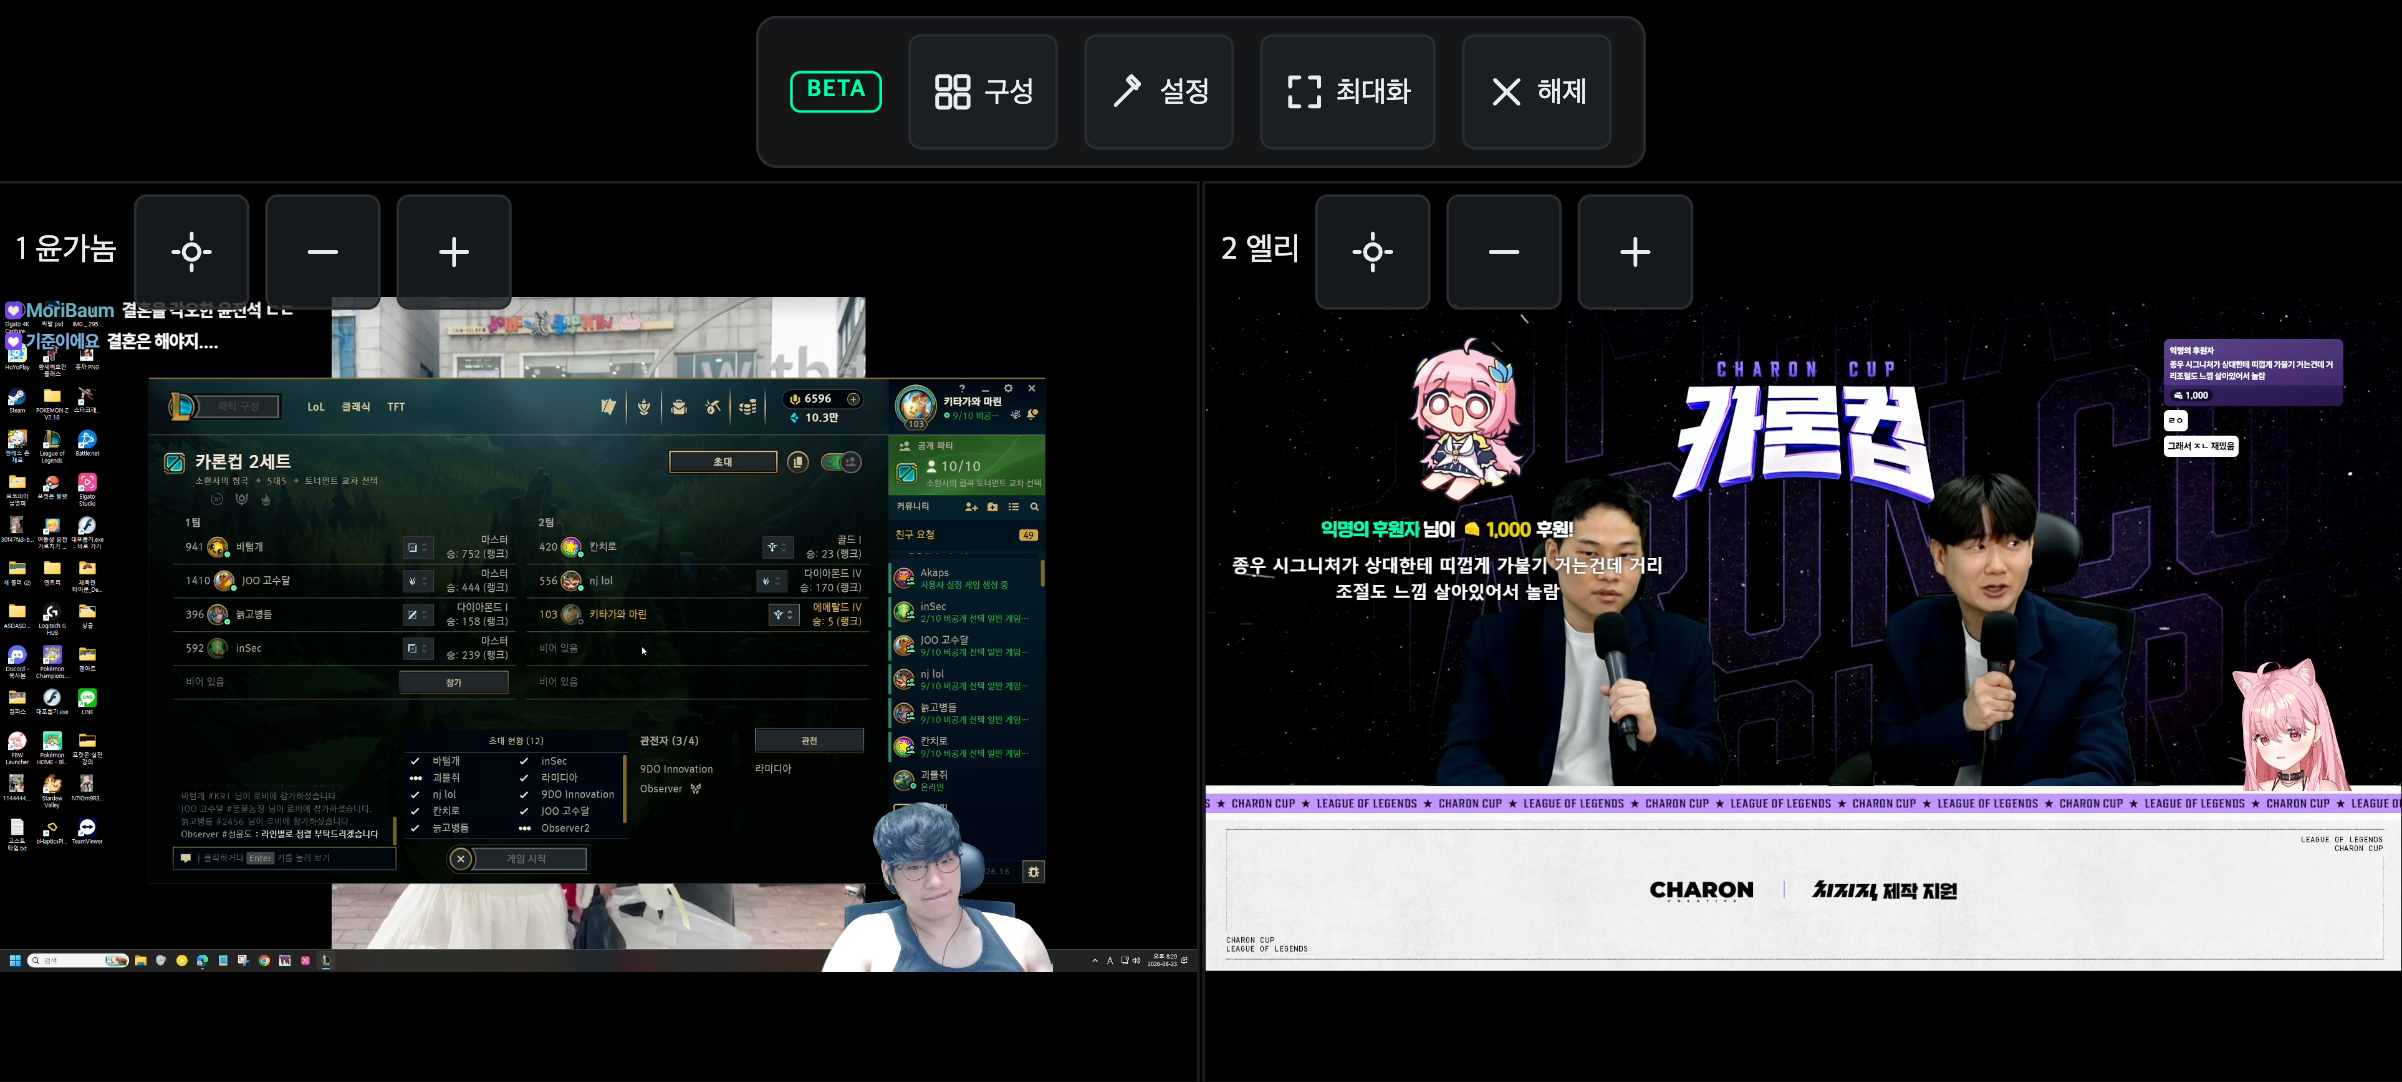
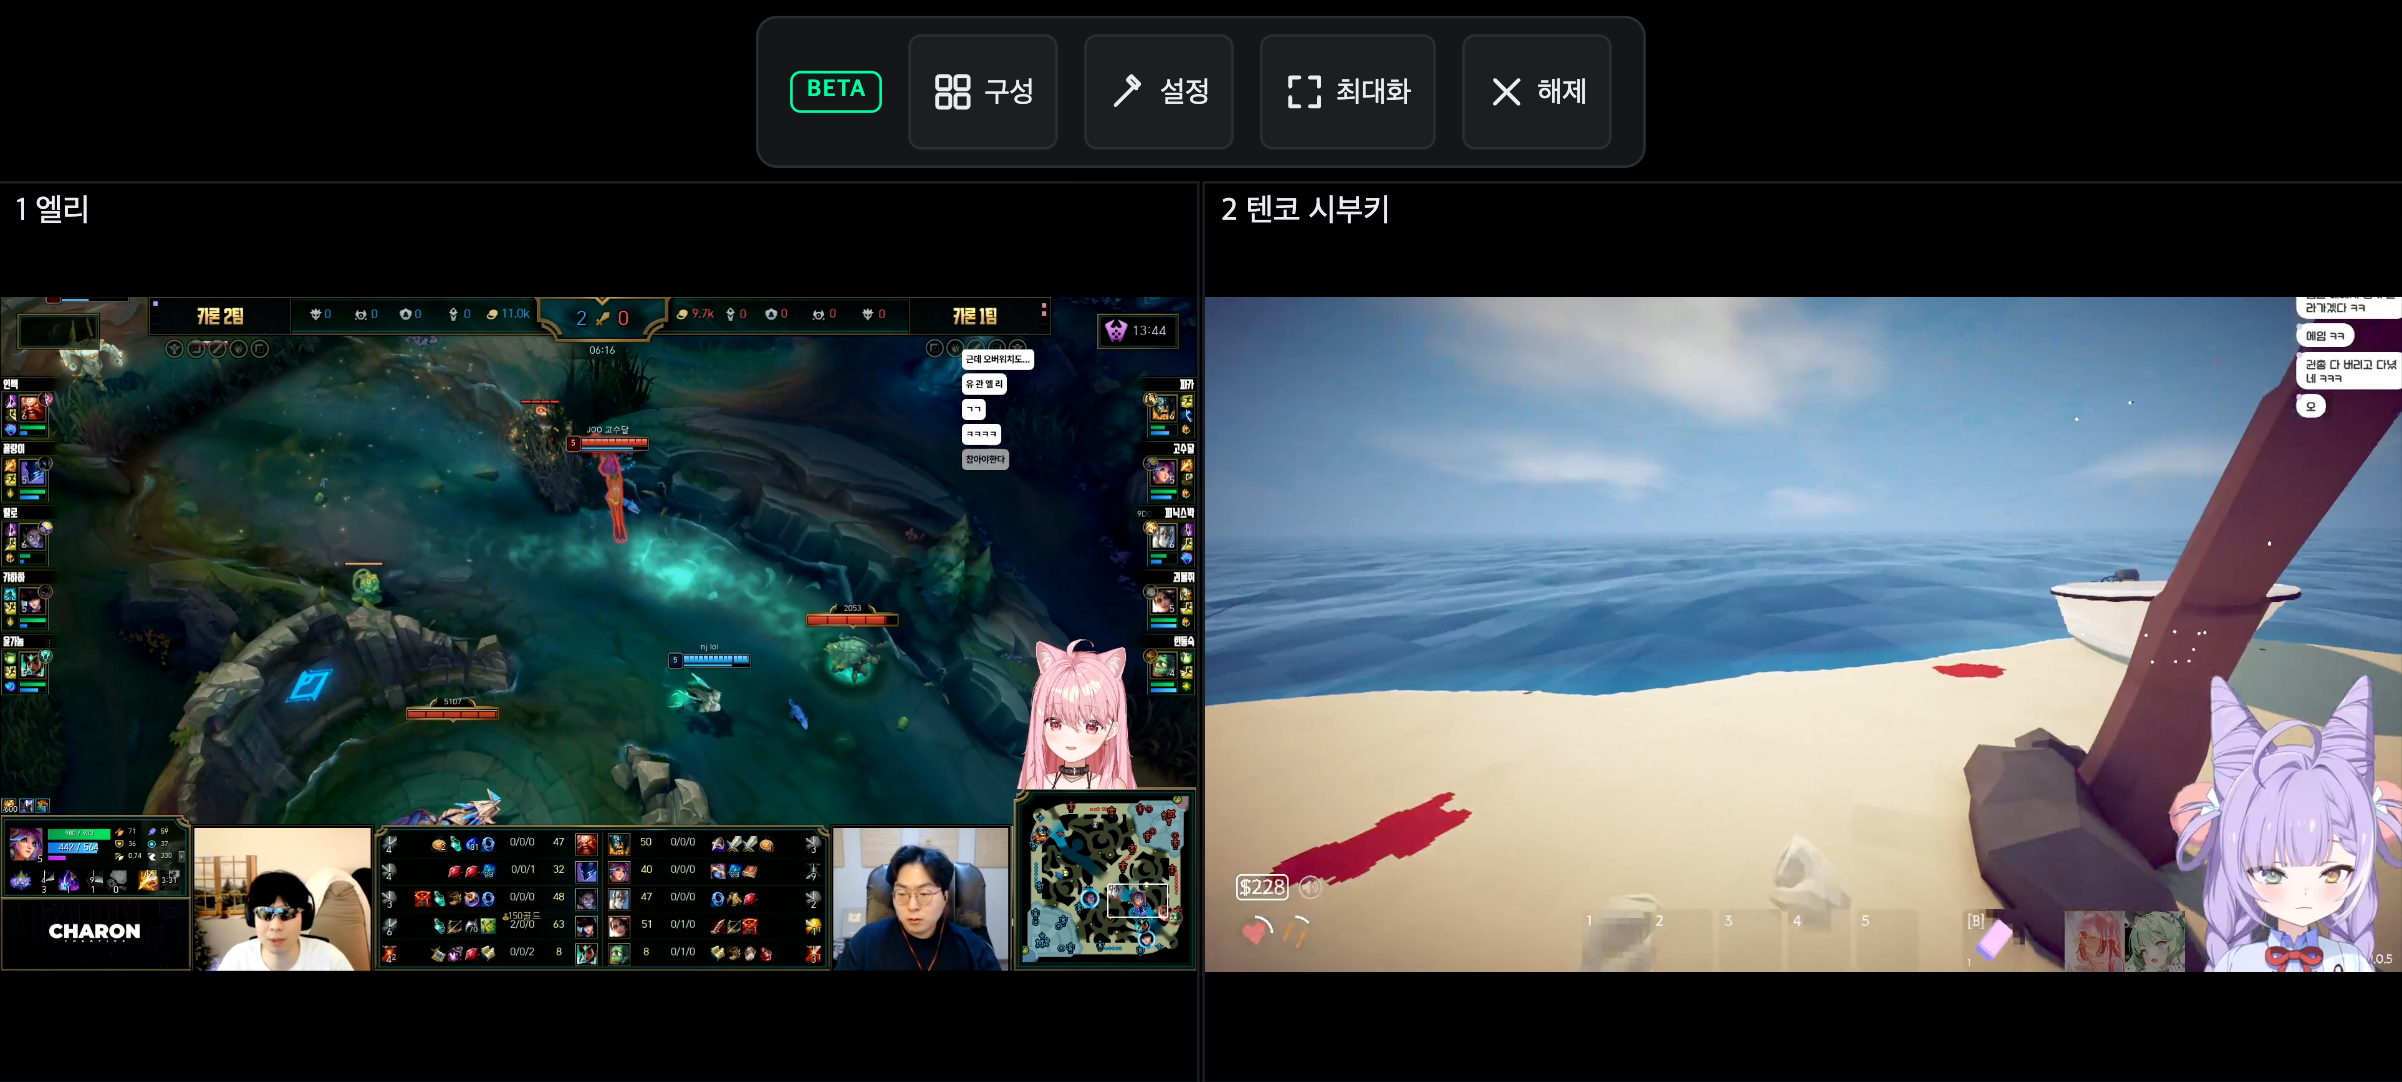
docs: Update changelog and demo screenshots

diff --git a/screenshots/README-snippet.md b/screenshots/README-snippet.md
@@ -1,15 +1,15 @@
 <!-- `yarn demo:shots` 로 생성된 목록. 실제 방송을 찍으므로 매 실행마다 채널이 다르다. -->
 <!-- 멀티뷰 시청 화면은 슬롯 컨텍스트 메뉴가 새어 나오면 저장 자체가 실패한다. -->
 
-| 기본 시청 화면 — 채팅 부가 요소 숨김 + 컨트롤바 버튼 삽입 (mobile-landscape · 윤가놈) | ![기본 시청 화면 — 채팅 부가 요소 숨김 + 컨트롤바 버튼 삽입](screenshots/demo-mobile-landscape-watch.png) |
-| 설정 패널 (FR-09.2) (mobile-landscape · 엘리) | ![설정 패널 (FR-09.2)](screenshots/demo-mobile-landscape-settings.png) |
-| 멀티뷰 구성 시트 — 조작은 상단, 인기 방송 10개씩 추가 로드 (mobile-landscape · 풍월량) | ![멀티뷰 구성 시트 — 조작은 상단, 인기 방송 10개씩 추가 로드](screenshots/demo-mobile-landscape-multiview-config.png) |
-| 멀티뷰 시청 화면 (기기 상한에 맞춰 2·4분할) (mobile-landscape · 행돌) | ![멀티뷰 시청 화면 (기기 상한에 맞춰 2·4분할)](screenshots/demo-mobile-landscape-multiview.png) |
-| 기본 시청 화면 — 채팅 부가 요소 숨김 + 컨트롤바 버튼 삽입 (mobile-portrait · 윤가놈) | ![기본 시청 화면 — 채팅 부가 요소 숨김 + 컨트롤바 버튼 삽입](screenshots/demo-mobile-portrait-watch.png) |
-| 설정 패널 (FR-09.2) (mobile-portrait · 엘리) | ![설정 패널 (FR-09.2)](screenshots/demo-mobile-portrait-settings.png) |
-| 멀티뷰 구성 시트 — 조작은 상단, 인기 방송 10개씩 추가 로드 (mobile-portrait · 풍월량) | ![멀티뷰 구성 시트 — 조작은 상단, 인기 방송 10개씩 추가 로드](screenshots/demo-mobile-portrait-multiview-config.png) |
-| 멀티뷰 시청 화면 (기기 상한에 맞춰 2·4분할) (mobile-portrait · 행돌) | ![멀티뷰 시청 화면 (기기 상한에 맞춰 2·4분할)](screenshots/demo-mobile-portrait-multiview.png) |
-| 기본 시청 화면 — 채팅 부가 요소 숨김 + 컨트롤바 버튼 삽입 (laptop13 · 윤가놈) | ![기본 시청 화면 — 채팅 부가 요소 숨김 + 컨트롤바 버튼 삽입](screenshots/demo-laptop13-watch.png) |
-| 설정 패널 (FR-09.2) (laptop13 · 엘리) | ![설정 패널 (FR-09.2)](screenshots/demo-laptop13-settings.png) |
-| 멀티뷰 구성 시트 — 조작은 상단, 인기 방송 10개씩 추가 로드 (laptop13 · 풍월량) | ![멀티뷰 구성 시트 — 조작은 상단, 인기 방송 10개씩 추가 로드](screenshots/demo-laptop13-multiview-config.png) |
-| 멀티뷰 시청 화면 (기기 상한에 맞춰 2·4분할) (laptop13 · 행돌) | ![멀티뷰 시청 화면 (기기 상한에 맞춰 2·4분할)](screenshots/demo-laptop13-multiview.png) |
+| 기본 시청 화면 — 채팅 부가 요소 숨김 + 컨트롤바 버튼 삽입 (mobile-landscape · 엘리) | ![기본 시청 화면 — 채팅 부가 요소 숨김 + 컨트롤바 버튼 삽입](screenshots/demo-mobile-landscape-watch.png) |
+| 설정 패널 (FR-09.2) (mobile-landscape · 텐코 시부키) | ![설정 패널 (FR-09.2)](screenshots/demo-mobile-landscape-settings.png) |
+| 멀티뷰 구성 시트 — 조작은 상단, 인기 방송 10개씩 추가 로드 (mobile-landscape · 유즈하 리코) | ![멀티뷰 구성 시트 — 조작은 상단, 인기 방송 10개씩 추가 로드](screenshots/demo-mobile-landscape-multiview-config.png) |
+| 멀티뷰 시청 화면 (기기 상한에 맞춰 2·4분할) (mobile-landscape · 따효니) | ![멀티뷰 시청 화면 (기기 상한에 맞춰 2·4분할)](screenshots/demo-mobile-landscape-multiview.png) |
+| 기본 시청 화면 — 채팅 부가 요소 숨김 + 컨트롤바 버튼 삽입 (mobile-portrait · 엘리) | ![기본 시청 화면 — 채팅 부가 요소 숨김 + 컨트롤바 버튼 삽입](screenshots/demo-mobile-portrait-watch.png) |
+| 설정 패널 (FR-09.2) (mobile-portrait · 텐코 시부키) | ![설정 패널 (FR-09.2)](screenshots/demo-mobile-portrait-settings.png) |
+| 멀티뷰 구성 시트 — 조작은 상단, 인기 방송 10개씩 추가 로드 (mobile-portrait · 유즈하 리코) | ![멀티뷰 구성 시트 — 조작은 상단, 인기 방송 10개씩 추가 로드](screenshots/demo-mobile-portrait-multiview-config.png) |
+| 멀티뷰 시청 화면 (기기 상한에 맞춰 2·4분할) (mobile-portrait · 따효니) | ![멀티뷰 시청 화면 (기기 상한에 맞춰 2·4분할)](screenshots/demo-mobile-portrait-multiview.png) |
+| 기본 시청 화면 — 채팅 부가 요소 숨김 + 컨트롤바 버튼 삽입 (laptop13 · 엘리) | ![기본 시청 화면 — 채팅 부가 요소 숨김 + 컨트롤바 버튼 삽입](screenshots/demo-laptop13-watch.png) |
+| 설정 패널 (FR-09.2) (laptop13 · 텐코 시부키) | ![설정 패널 (FR-09.2)](screenshots/demo-laptop13-settings.png) |
+| 멀티뷰 구성 시트 — 조작은 상단, 인기 방송 10개씩 추가 로드 (laptop13 · 유즈하 리코) | ![멀티뷰 구성 시트 — 조작은 상단, 인기 방송 10개씩 추가 로드](screenshots/demo-laptop13-multiview-config.png) |
+| 멀티뷰 시청 화면 (기기 상한에 맞춰 2·4분할) (laptop13 · 따효니) | ![멀티뷰 시청 화면 (기기 상한에 맞춰 2·4분할)](screenshots/demo-laptop13-multiview.png) |

diff --git a/README.md b/README.md
@@ -335,6 +335,8 @@ MIT License · Copyright (c) 2026 Arc-Jung
 
 ### 2026-08-23
 
+- **멀티뷰 채널 선택 목록에 방송 썸네일·제목 표시** — 팔로우·인기 방송·최근 배치 목록 모두 채널명만 있어 어떤 방송인지 고르기 어려웠다. 치지직 CDN 썸네일과 방송 제목을 함께 보여 준다(팔로우 목록은 스키마 미확인이라 없을 수 있음 — 그때는 채널명만 표시)
+- **멀티뷰 슬롯 헤더의 초점·채팅 줄 수 버튼 제거** — 슬롯·사이드 채팅이 임시 비활성화된 뒤로 두 버튼 모두 쓸모가 없어졌다. 초점 전환은 슬롯을 직접 클릭하는 기존 경로로 대체된다
 - **멀티뷰 슬롯 안에 싱글뷰와 동일한 볼륨·컴프레서 컨트롤 적용** — 슬롯도 결국 같은 페이지를 그대로 iframe 으로 불러오므로, 싱글뷰의 볼륨/컴프레서 기능(`volumeFeature`)을 슬롯 프레임에서도 그대로 지원하도록 변경. 스테이지 조작 바에 별도로 만들었던 마스터 볼륨·컴프레서 버튼(파편화로 오류를 유발)은 제거하고, 각 슬롯 자신의 컨트롤바에 싱글뷰와 똑같은 버튼이 뜬다
 - **멀티뷰 슬롯이 가끔 로드에 실패하던 문제에 재시도 추가** — 4개 중 1~2개가 간헐적으로 실패하던 문제. 타임아웃마다 곧장 실패로 확정하지 않고 프레임을 최대 2회 다시 불러온 뒤에도 안 되면 최종 오류로 표시
 - **싱글 방송 시청 중 검은 화면만 뜨던 문제에 재시도 추가** — 스트림 데이터를 한 번도 받지 못한 채(재생 진행 없음) 일정 시간이 지나면 영상을 다시 불러와 재생을 시도(최대 2회)
